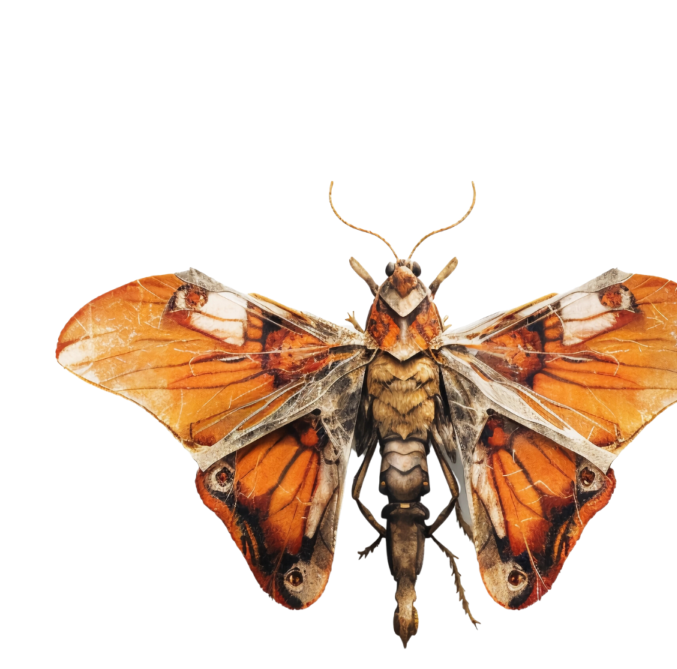
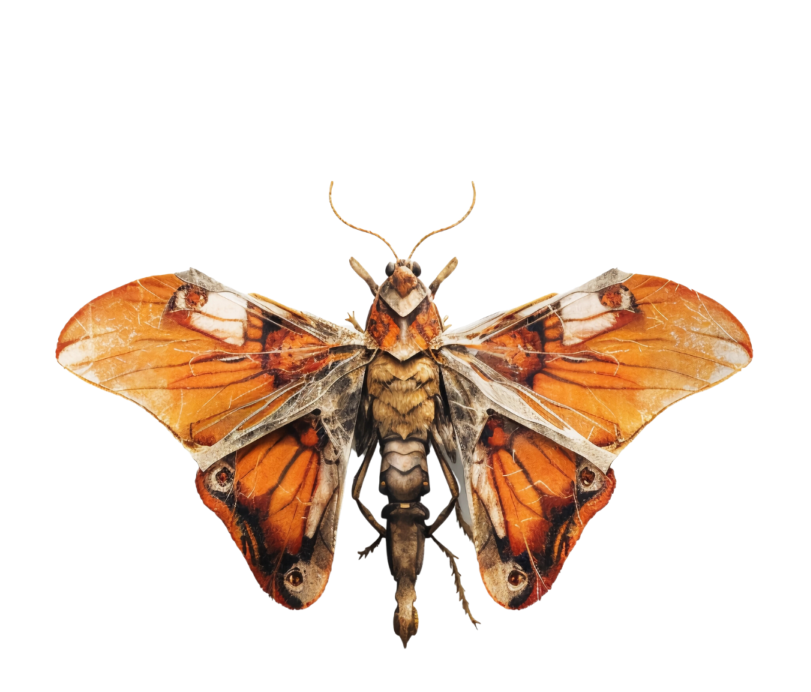
Bugs responsiveness improvement

diff --git a/src/Bugs.tsx b/src/Bugs.tsx
@@ -1,5 +1,5 @@
 import Image from "next/image";
-import React from "react";
+import React, { useEffect, useCallback, useState } from "react";
 import { Stack, Box, Button, Typography } from "@mui/material";
 import { SxProps } from "@mui/material/styles";
 import Draggable from "react-draggable";
@@ -12,14 +12,14 @@ let animationNames = [
 	"scale-down-0-8",
 	"scale-down-translate-top-right",
 ];
-
-const images: {
+interface IImage {
 	width: number;
 	height: number;
 	style: React.CSSProperties;
 	src: string;
 	className?: string;
-}[] = [
+}
+const images: IImage[] = [
 	{
 		width: 200,
 		height: 200,
@@ -236,6 +236,70 @@ const images: {
 /** Moths, flowers, and other big objects */
 export default function BugsLargest({ sx }: { sx?: SxProps }) {
 	const ref = useUndraggable();
+	const [newImages, setNewImages] = useState<IImage[]>(
+		JSON.parse(JSON.stringify(images))
+	);
+	const [resizedOnce, setResizedOnce] = useState(false);
+
+	const convertLeftTop = useCallback(function (
+		left: number,
+		top: number,
+		width: number,
+		height: number
+	) {
+		const originalWidth = 1842;
+		const originalHeight = 1009;
+
+		const proportionalLeft = (left / originalWidth) * width;
+		const proportionalTop = (top / originalHeight) * height;
+
+		return {
+			left: proportionalLeft,
+			top: proportionalTop,
+		};
+	},
+	[]);
+
+	useEffect(() => {
+		let handlerTimer: null | ReturnType<typeof setTimeout>;
+		if (!resizedOnce) {
+			setResizedOnce(true);
+			handler(undefined, true);
+		}
+		function handler(e?: Event, immediate?: boolean) {
+			const { innerWidth, innerHeight } = window;
+			let newImagesToSet = structuredClone(images).map((img) => {
+				const { left, top } = convertLeftTop(
+					parseInt(String(img.style.left) || String(0)),
+					parseInt(String(img.style.top) || String(0)),
+					innerWidth,
+					innerHeight
+				);
+				img.style.left = `${left}px`;
+				img.style.top = `${top}px`;
+				const widthHeightRatio = img.width / img.height;
+
+				img.width = (innerWidth / 1842) * img.width;
+				img.height = img.width / widthHeightRatio;
+
+				return img;
+			});
+			if (!immediate) {
+				handlerTimer && clearTimeout(handlerTimer);
+				handlerTimer = setTimeout(() => {
+					setNewImages(newImagesToSet);
+				}, 1000);
+			} else {
+				setNewImages(newImagesToSet);
+			}
+		}
+		window.addEventListener("resize", handler);
+
+		return () => {
+			window.removeEventListener("resize", handler);
+		};
+	}, [convertLeftTop, newImages, resizedOnce]);
+
 	return (
 		<Box
 			ref={ref}
@@ -261,7 +325,7 @@ export default function BugsLargest({ sx }: { sx?: SxProps }) {
 					display: { xs: "none", lg: "block" },
 				}}
 			>
-				{images.map((elem, index) => {
+				{newImages.map((elem, index) => {
 					return (
 						<Draggable disabled={!ALLOW_DRAGGING} key={index}>
 							<Image
